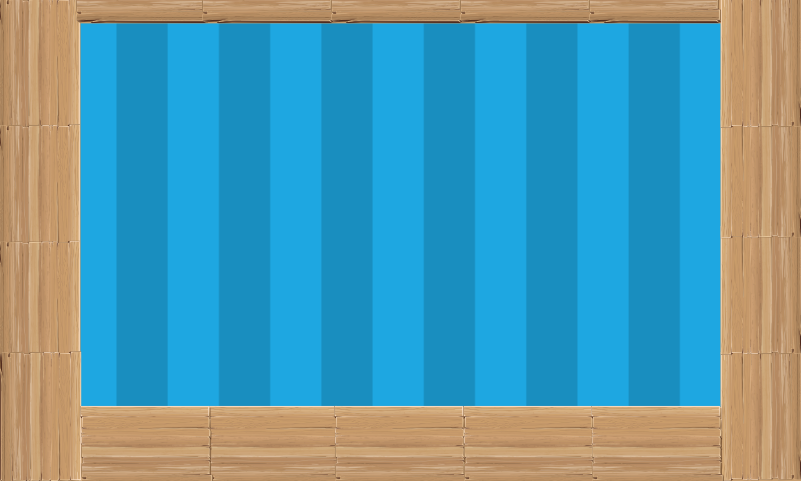
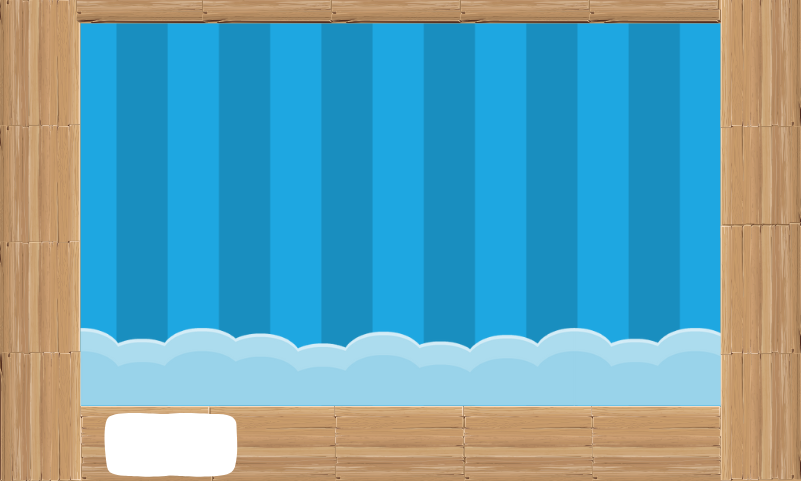
updates

Changed region(s): [[0.0936, 0.6549, 0.9051, 0.9979], [0.9051, 0.4366, 1.0, 0.499]]

diff --git a/main.js b/main.js
@@ -21,8 +21,16 @@ let water = new Image();
 water.src = './images/water-2.png';
 
 let frame = new Image();
-frame.src = './images/frame.png';
+frame.src = './images/base.png';
 
+let again = new Image();
+again.src = './images/playagain2.png';
+
+let gun1 = new Image();
+gun1.src = './images/riffle1.png';
+
+
+//sounds
 let shoot = new Audio();
 shoot.src = './audio/shoot.wav';
 
@@ -36,7 +44,7 @@ let loading = new Audio();
 loading.src = './audio/loadtargets.mp3';
 
 let gameover = new Audio();
-gameover.src = './audio/gameover3.wav';
+gameover.src = './audio/quack.mp3';
 
 
 
@@ -150,6 +158,7 @@ function showTarget(){
 function shootTarget(){
 
     if (firstTarget) {
+        
         ctx.drawImage(bullet,168,300);
         if (firstItem == randomTarget && !firstHit) {     
             shoot.play();           
@@ -162,6 +171,7 @@ function shootTarget(){
     }
 
     if (secondTarget) {
+       
         ctx.drawImage(bullet,320,300);
         if (secondItem == randomTarget & !secondHit) {
             shoot.play();       
@@ -174,6 +184,7 @@ function shootTarget(){
     }  
     
     if (thirdTarget) {
+       
         ctx.drawImage(bullet,480,300);
         if (thirdItem == randomTarget & !thirdHit) {
             shoot.play();     
@@ -186,6 +197,7 @@ function shootTarget(){
     } 
 
     if (fourthTarget) {
+        
         ctx.drawImage(bullet,620,300);
         if(fourthItem == randomTarget & !fourthHit) {
             shoot.play(); 
@@ -199,70 +211,78 @@ function shootTarget(){
 
 }
 
+function newRound() {
+    //load a new round
+   
+    pos[0].y = 350;
+    pos[1].y = 350;
+    pos[2].y = 350;
+    pos[3].y = 350;
+
+    pos[0].tar = "";
+    pos[1].tar = "";
+    pos[2].tar = "";
+    pos[3].tar = "";
+    
+    totalHits = 0;
+    userHits = 0;
+    randomTarget = "";
+
+    firstTarget = false;
+    secondTarget = false;
+    thirdTarget = false;    
+    fourthTarget = false;
+
+    firstItem = "";
+    secondItem = "";
+    thirdItem = "";
+    fourthItem = "";
+
+    firstHit = false;
+    secondHit = false;
+    thirdHit = false;
+    fourthHit = false;
+
+    loading.play();
+
+    
+}
+
 function draw(){
 
     ctx.drawImage(bg,0,0);
-
+   
     showTarget();
     shootTarget();
 
-    //load a new round
     if (userHits == totalHits || totalHits == 0) {
-        pos[0].y = 350;
-        pos[1].y = 350;
-        pos[2].y = 350;
-        pos[3].y = 350;
-
-        pos[0].tar = "";
-        pos[1].tar = "";
-        pos[2].tar = "";
-        pos[3].tar = "";
-      
-        totalHits = 0;
-        userHits = 0;
-        randomTarget = "";
-
-        firstTarget = false;
-        secondTarget = false;
-        thirdTarget = false;    
-        fourthTarget = false;
-
-        firstItem = "";
-        secondItem = "";
-        thirdItem = "";
-        fourthItem = "";
-
-        firstHit = false;
-        secondHit = false;
-        thirdHit = false;
-        fourthHit = false;
-
-        loading.play();
+        newRound();
         showTarget();
     }
-
+    
 
     ctx.drawImage(water, 79, canvas.height - 370)
-    ctx.drawImage(frame, 79, canvas.height - 296 )
+
+    ctx.drawImage(gun1, 260,360, gun1.width * .8,gun1.height * .8);
 
     //  //show single target
-    ctx.drawImage(randomTarget, 180, 410)
+    ctx.drawImage(randomTarget, 175, 416)
 
     ctx.fillStyle = 'black'
-    ctx.font = '22px Verdana'
-    ctx.fillText("Target:",95,450)
+    ctx.font = '16px Verdana'
+    ctx.fillText("Target:",113,450)
 
     ctx.fillStyle = 'white'
     ctx.font = '22px Verdana'
     ctx.fillText("Score:",95,50)
     ctx.fillText(score,170,50)
 
+
     if (isGameOver) {
         cancelAnimationFrame(intervalId)
-        ctx.fillStyle = 'white'
-        ctx.font = '30px Verdana'
-        ctx.fillText("Game Over",300,100)
+        ctx.drawImage(again, 350, 100)
         gameover.play();
+        //isGameOver = true;
     }
     else {
         intervalId = requestAnimationFrame(draw)
@@ -276,6 +296,7 @@ window.addEventListener('load', () => {
     
     loading.play();
     draw();
+    
 
     document.addEventListener('keypress',(event)=> {
 
@@ -294,10 +315,16 @@ window.addEventListener('load', () => {
             fourthTarget=true;
 
         }
+        else if (event.key=='Enter' && isGameOver) {
 
+            location.reload();
+
+        }
+        else if (event.key=='Enter') {
+            
+        }
         else {
             isGameOver=true;
-            
         }
     })
 
